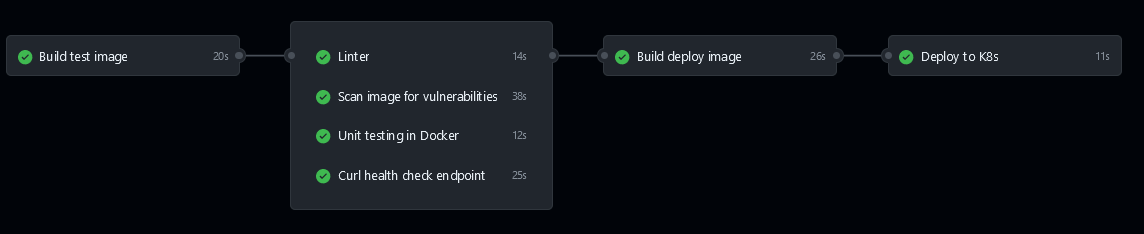
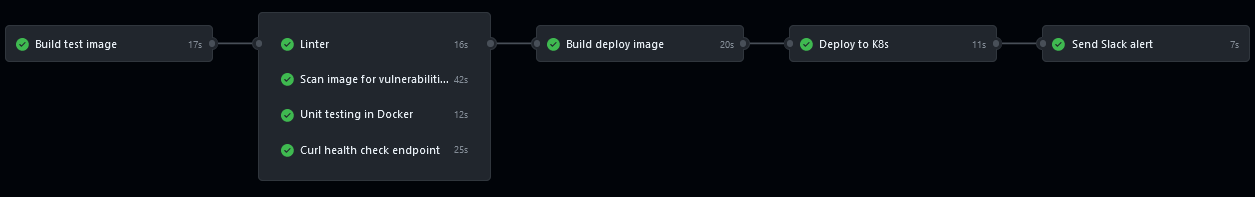
add doc

Changed region(s): [[0.0, 0.0609, 1.0, 0.9442], [0.0, 0.1827, 0.1224, 0.2741]]

diff --git a/README.md b/README.md
@@ -1,37 +1,98 @@
-![Alt Text](diagrams/overview.png)
+![Overview](diagrams/overview.png)
 
 # Overview
 
-In this project, the **CI/CD** pipeline is divided into four phases:
+This Go project provides easy-to-use endpoints for performing math operations like addition, subtraction, bitwise operations and more.
 
-1. **Build and push a test image**
+In this project, the **CI/CD** pipeline is divided into five phases:
 
-   This phase involves creating and pushing a test image to a container registry. The purpose is to encapsulate the new code version and prepare it for testing.
+1. **Build and push to GHCR a test image**
 
-2. **Run different tests on this image**
+2. **Run different tests on this image to validate new changes**
 
-   Once the test image is available, various tests are executed to validate that the new code version adheres to best practices and does not introduce any issues that might affect existing functionality.
-
-3. **Build and push a new image for deployment**
-
-   After successful testing, a new image is built, incorporating the changes. This image is then pushed to the container registry, ready for deployment.
+3. **Build and push to Docker Hub a image for deployment**
 
 4. **Deploy the newly created image on a Kubernetes cluster on Digital Ocean**
 
-   In the final phase, the newly built image is deployed to a Kubernetes cluster hosted on Digital Ocean. 
+5. **Send notification in Slack chanel**
+
 
 # In-Depth Explonation of CI/CD Phases
 
 - **First & Second Phases**
 
+   The **CI/CD** pipeline for this project is triggered by one of three events:
 
+   - Push to the main branch
 
+   - Pull request
 
+   - Creation of a tag
 
-## Curl
-```
-curl -X POST \
-  -d '[1, 2, 3, 4, 5]' \
-  -H "Content-Type: application/json" \
-  http://157.245.30.11:8080/sum
-```
+   Pushes to the main branch and pull requests execute only the first and second phases. In contrast, when a tag is created, the entire pipeline is executed. Therefore, the first and second phases are crucial as they run every time the CI/CD pipeline is triggered.
+
+   In the initial phase, a new image is generated in the format `ghcr.io/iypetrov/go-calc:<github-runner-id>`, and it's published to GHCR. This temporary image serves only for testing purposes and is intentionally excluded from being pushed to the main registry (**Docker Hub**) to avoid unnecessary clutter in the primary registry. 
+
+   In the second phase, four types of tests are conducted:
+
+   - **Linter Analysis:** 
+   
+      Runs the default and most popular Golang linter `golangci-lint`. It analyzes source code to flag programming errors, bugs, stylistic errors, and suspicious constructs.
+
+      ![Linter](diagrams/linter.png)
+
+   - **CVE Scan Verification:** 
+   
+      Conducts a Trivy scan to identify potential security issues within the project's dependencies. This test is non-blocking, meaning it won't prevent the workflow from proceeding regardless of the security findings. Its main purpose is to provide suggestions for improving security. Upon completion, the Trivy scan results are uploaded to the GitHub Security tab for further analysis.
+
+      ![CVE Scan](diagrams/cve.png)
+
+   - **Execution of Unit Tests:** 
+   
+      All default unit and benchmark tests are executed.
+
+   - **Health-Check Test Performance:** 
+   
+      A container is spun up and curled three times with a 5-second interval between attempts. During each trial, the `/health-check` endpoint is accessed, and the test is considered successful only if all three attempts are completed successfully.
+
+- **Third Phase**
+
+   The first and third phases share substantial similarities. The key distinction is that the third phase, along with subsequent phases (fourth and fifth), is exclusively executed when the action involves creating a tag. Additionally, in this phase, the image is published only to Docker Hub following the format `iypetrov/go-calc:<tag>`.
+
+- **Fourth phase**
+
+   The fourth phase involves deploying the freshly created image to our Kubernetes cluster. Our cluster, hosted on Digital Ocean, operates with a single node. Within this node, three instances of the `go-calc` service are running, complemented by a load balancer for public exposure.
+
+   ![K8s](diagrams/k8s.png)
+
+- **Fifth phase**
+
+   In the final phase, once everything is completed, a notification is sent to our Slack channel `#deployment`. The notification includes information on the success of the deployment and specifies the image that has been pushed to the production.
+
+   ![K8s](diagrams/slack.png)
+
+## Hints
+
+- To test the if the app is working on production:
+   ```
+   curl -X POST \
+   -d '[1, 2, 3, 4, 5]' \
+   -H "Content-Type: application/json" \
+   http://157.245.30.11:8080/sum
+   ```
+
+- To see all pods:
+   ```
+   kubectl get pods -o wide
+   ```
+
+- To see pod's images:
+   ```
+   kubectl get pods -o wide | \
+   awk '{print $1}' | \
+   tail -n +2 | \
+   while read -r pod; do
+      echo "Pod: $pod"
+      kubectl describe pod "$pod" | grep Image: | awk '{print "Image: " $2}' && echo
+   done
+   ```
